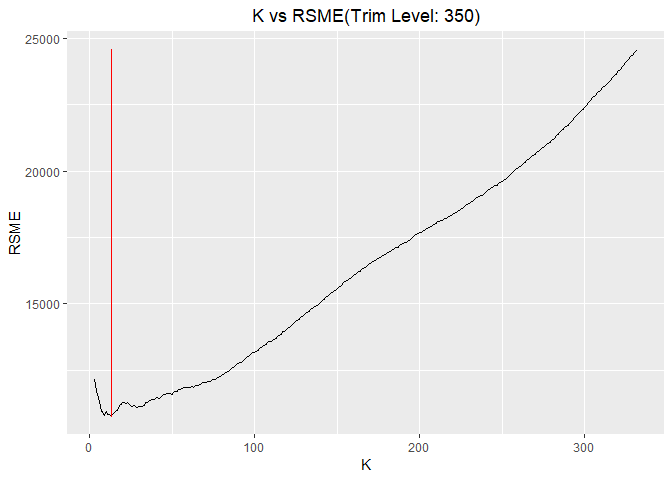
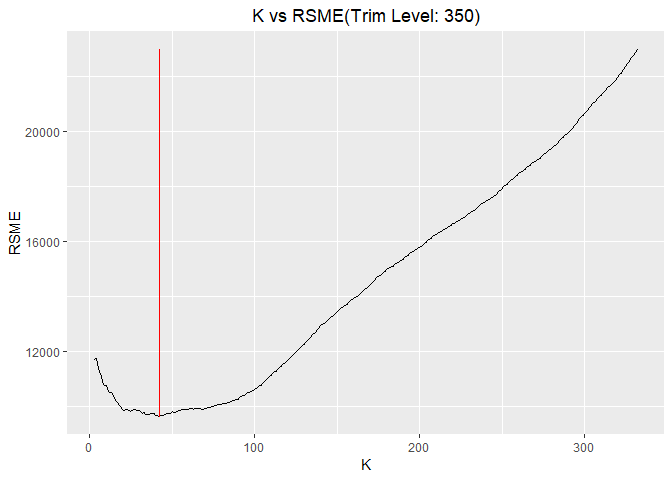
1.1

diff --git a/HW1/Report/Exercise_1_Report.md b/HW1/Report/Exercise_1_Report.md
@@ -6,6 +6,14 @@ author: Chong Wang, Tinaping Wu, Zhenning Zhao
 Exercise 1.1
 ------------
 
+The environmentally conscious buildings have some obvious advantages, not only from an eco-friendly view, but also from the financial view, but the "data guru" clearly didn't make an reasonable argument to show the advantages clearly. To be more specific, we conclude that the duration that he calculated to recover the cost is wrong. <img src="Exercise_1_Report_files/figure-markdown_github/p1.1-1.png" style="display: block; margin: auto;" /> The first step is to clean the data. The "data guru" noticed that a handful of the buildings in the data set had very low occupancy rates. Although this is a true fact, which can be shown in the above graph, he didn't provide a ggod reason for why remove the buildings with less than 10% leasing rate from consideration. It might be true that there are something weird happening with the buildings that have an occupancy rate of zero, but there is no good reason to remove 215 data points from the whole data set. According to a [research conducted by IBM](https://www.ibm.com/support/knowledgecenter/en/SSFCZ3_10.5.2/com.ibm.tri.doc/wpm_metrics/r_occupancy_rate.html), the buildings with a zero leasing rate is called not-used buildings. So we decide to exclude these data points fro the original dataset, instead of all the data with a leasing rate less than 10%.
+
+After that, we tried to clean the data further from the view that the "data guru" didn't think of. We noticed that this new project is in Austin. Since we checked from the internet that the tallest building in Austin is 56 floors, it makes no sense to do the analysis with the building that are too tall for Austin. Hence, we exclude all the buildings whose cluster has a building taller than 56 stories, and we end up with 6,618 data in the dataset.
+
+<img src="Exercise_1_Report_files/figure-markdown_github/p1.2-1.png" style="display: block; margin: auto;" /> According to the "data guru", there are still many outlier from the dataset after the data cleaning, so he choose to use the median instead of the mean to calculate the expected rent for green buildings and non-green buildings. We plot the boxplot of green buildings and non-green buildings, to give a basic taste of the data. it seems that the "data guru" was right about the outliers, but it is unclear why there are so many outliers. So we digged deeper, and got some interesting findings.
+
+Second,
+
 Exercise 1.2
 ------------
 
@@ -22,7 +30,7 @@ We splited the data into a training and a testing set. There are 80% of the data
 
 The optimal K for trim level 350 is printed below:
 
-    ## [1] 13
+    ## [1] 42
 
 Since the traning set is chosen randomly, if we run the KNN for several times, we will get different result. But generally, we can get the optimal K for trim level 350 is about 19. Then for the optimal value of K in this one running, a plot of the fitted modelis shown below:
 
@@ -38,7 +46,7 @@ We splited the data into a training and a testing set. There are 80% of the data
 
 The optimal K for trim level 65 AMG is printed below:
 
-    ## [1] 10
+    ## [1] 21
 
 Since the traning set is chosen randomly, if we run the KNN for several times, we will get different result. But generally, we can get the optimal K for trim level 65 AMG is about 16. Then for the optimal value of K in this one running, a plot of the fitted modelis shown below:
 
